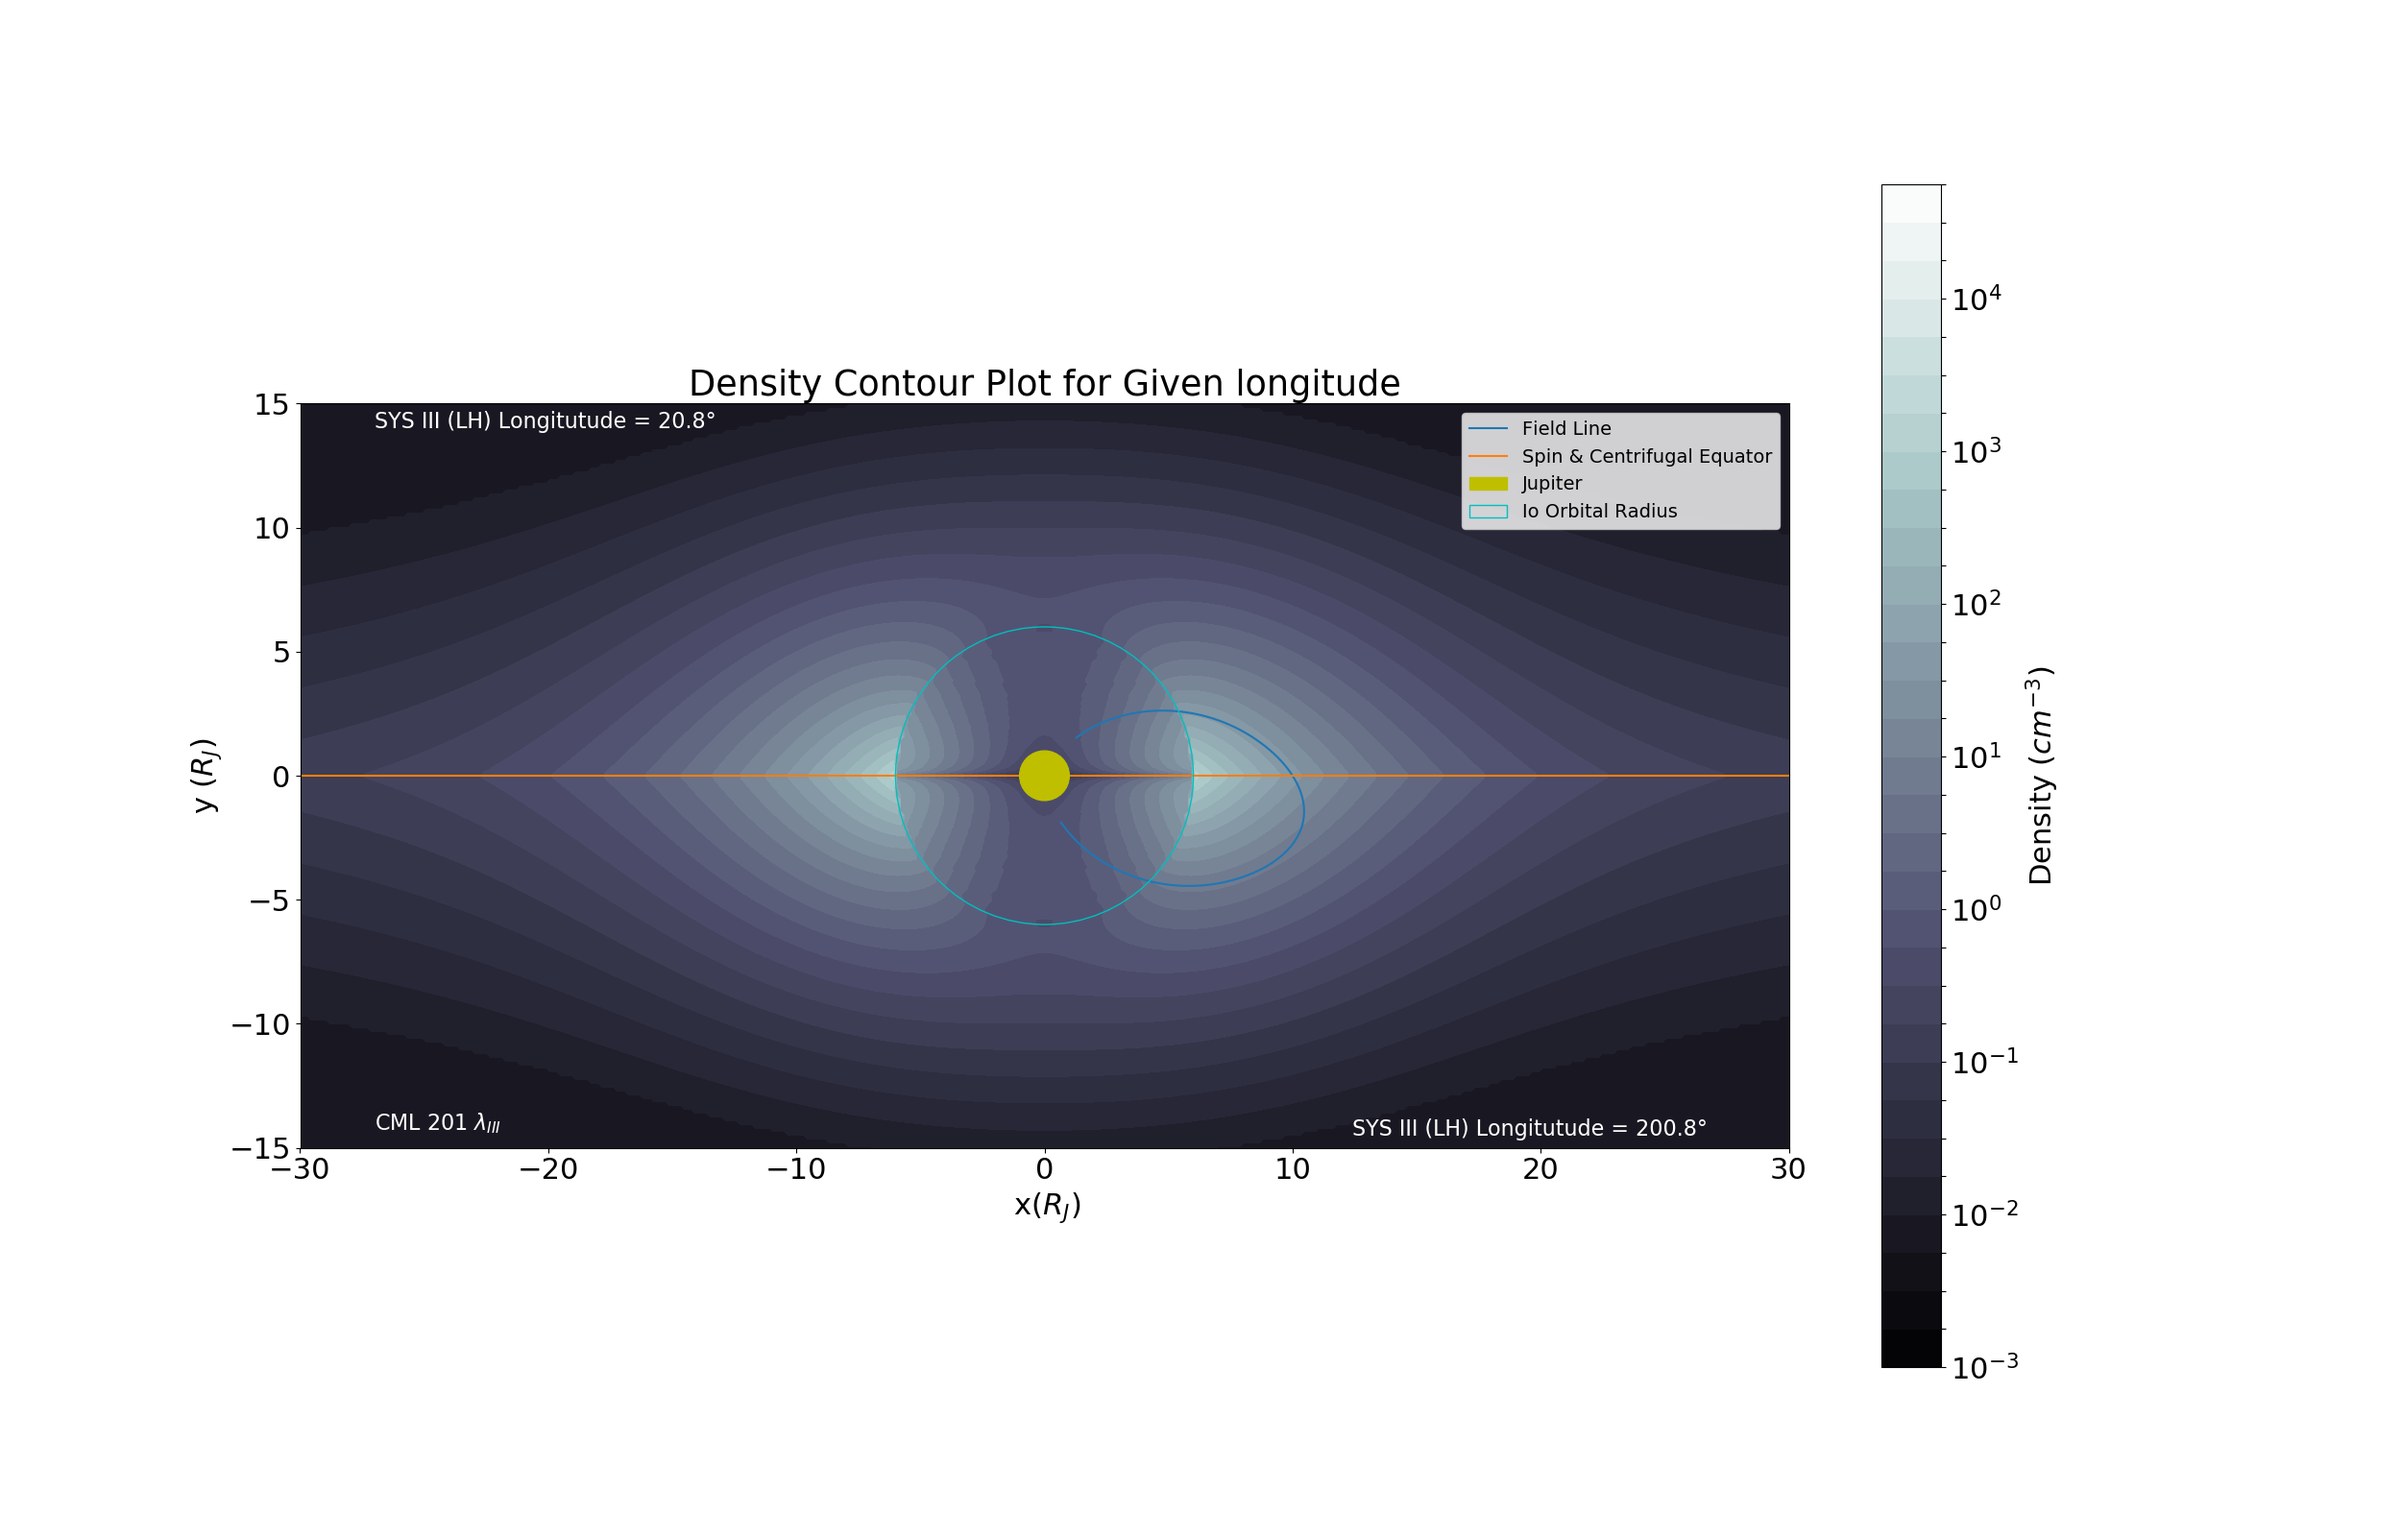
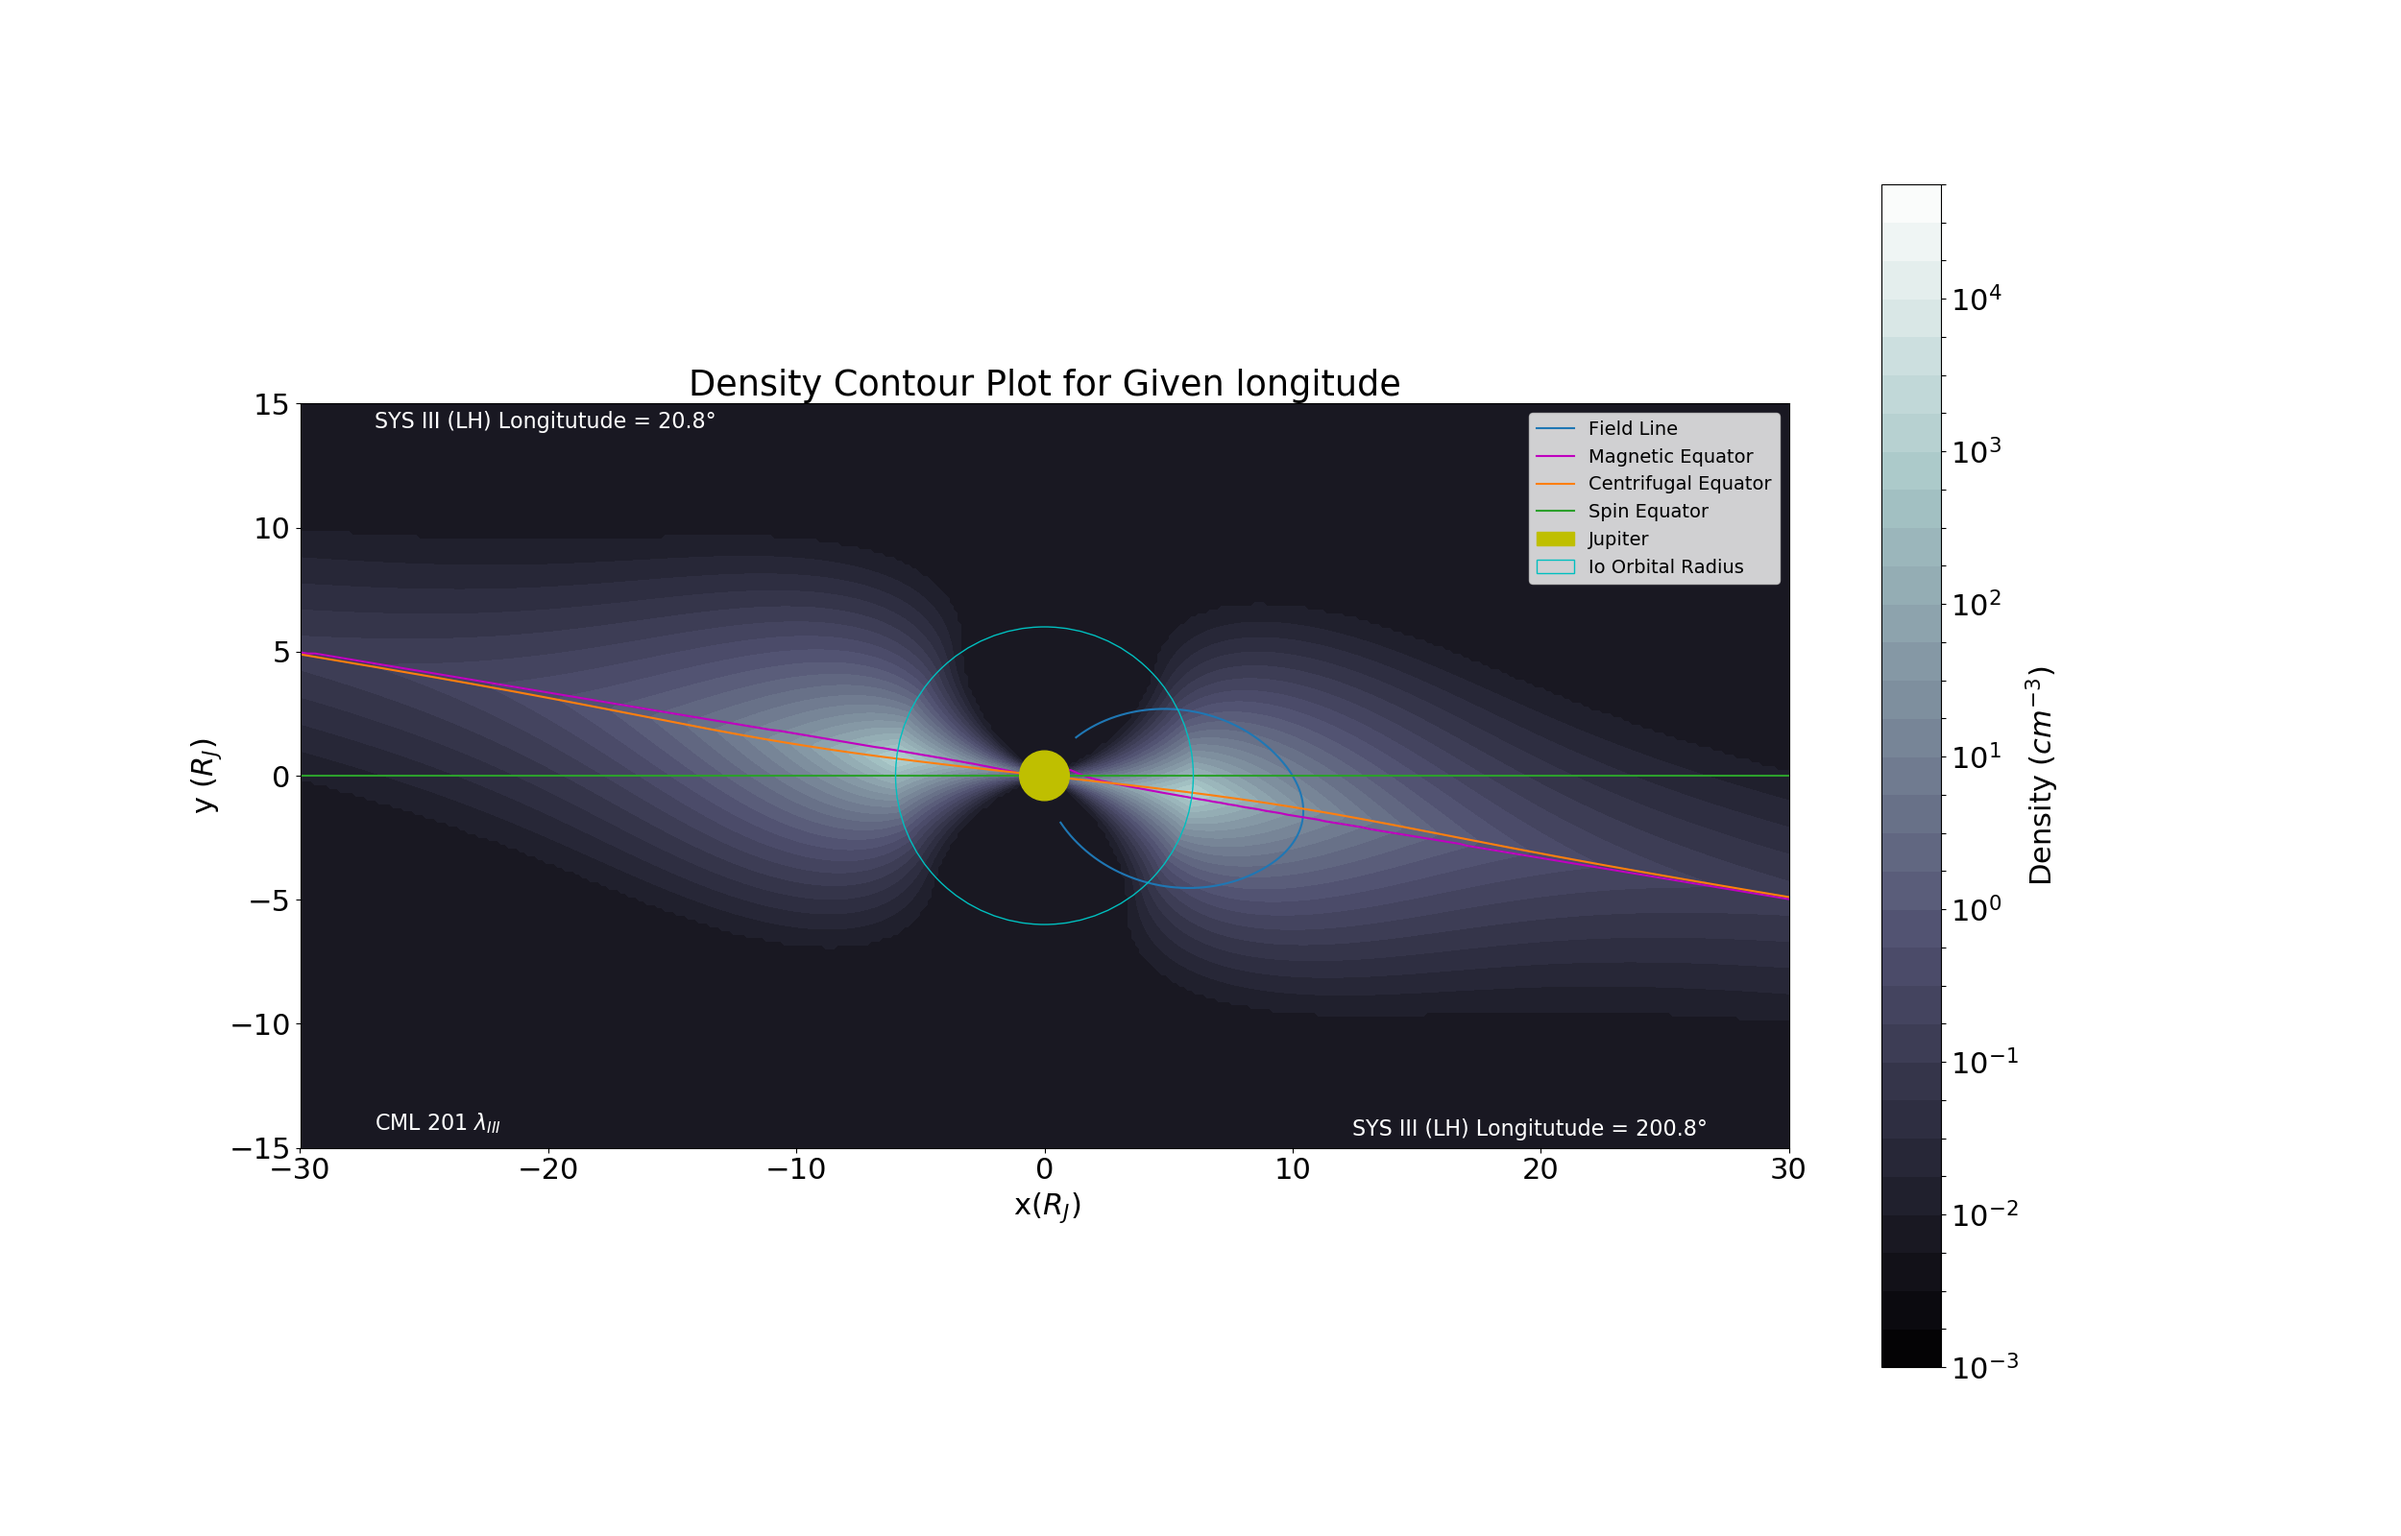
aah

Changed region(s): [[0.1248, 0.25, 0.7488, 0.7188], [0.6864, 0.5625, 0.7176, 0.5938], [0.1248, 0.4062, 0.156, 0.4375]]

diff --git a/alfven.py b/alfven.py
@@ -1191,7 +1191,7 @@ class AlfvenVel:
             
                 ''' if r>6, then density and mangetic field calculated in the same manner ''' 
                 if equators =='unmatched':    
-                    n = self.densityfunctions.density_sep_equators(r, theta, phi_lh)
+                    n = self.densityfunctions.density_sep_equators(r, theta, phi)
                 if equators =='matched':    
                     n = self.densityfunctions.density_same_equators(r, theta)
                 #print(n)
@@ -1563,8 +1563,61 @@ class AlfvenVel:
         plt.savefig('images-24-jan-update/v outflow vs VA equatorial')
         plt.show()
 
+    def lat_where_va_correction_matters(self, r, phi_lh_deg, step = 1*np.pi/180, rtol = 0.01
+    ,equators = 'unmatched'):
+        '''
+        input r in rj, phi sys III left handed 
+        return latitude where the relativistic correction matters
+        '''
+        '''
+        it'll probably be faster starting at vertically up and working out where it stops to matter?
+        '''
+        phi_lh_rad = phi_lh_deg * np.pi / 180
+        phi_rh_rad = 2*np.pi - phi_lh_rad
+        thetas = np.arange(2*np.pi/180, np.pi,step = step)
+        firsttime = 0
+        #print(thetas)
+        for theta in thetas:
+            if equators =='unmatched':    
+                n = self.densityfunctions.density_sep_equators(r, theta, phi_lh_rad)
+            if equators =='matched':    
+                n = self.densityfunctions.density_same_equators(r, theta)
+            #print(n)
 
+            B_r, B_theta, B_phi = self.field.Internal_Field(r, theta, phi_rh_rad, model=self.model) #calculates the magnetic field due to the internal field in spherical polar that point)
+            B_current = self.field.CAN_sheet(r, theta, phi_rh_rad) #calculates the magnetic field due to the current sheet in spherical polar
+            B_notcurrent = np.array([B_r, B_theta, B_phi]) 
+            B_overall = np.add(B_current, B_notcurrent)
+            B_x, B_y, B_z = self.help.Bsph_to_Bcart(B_overall[0], B_overall[1], B_overall[2], r, theta, phi_rh_rad)
+            
+            B = np.array([B_x, B_y, B_z])
+            B_tesla = B/(1e9) #CHRIS code outputs nT
+            va = self.calculator(B_tesla, n)
+            corrected_va = self.relativistic_correction(va)
+            if np.isclose(corrected_va, va, rtol = rtol):
+                #print(theta)
+                if firsttime ==0:
+                    value_1 = theta
+                    firsttime = 1
+                value_2 = theta
+                #print(value)
+        index_t = np.where(thetas == value_1)[0]
+        index_b = np.where(thetas == value_2)[0]
+        
+        first_theta_it_matters_colat = thetas[index_t[0]-1]
+        second_timc = thetas[index_b[0]-1]
+        
+        lat_top = np.pi/2 - first_theta_it_matters_colat
+        lat_deg_top = lat_top * 180/np.pi
 
+        lat_bottom = np.pi/2 - second_timc
+        lat_deg_bottom = lat_bottom * 180/np.pi
+        
+
+        return lat_deg_top, lat_deg_bottom
+        
+
+            
     #def relativistic_correction_area_of_impact_3d(self)
 
 test = AlfvenVel(numpoints=200, model='VIP4', stop = 50)
@@ -1586,12 +1639,14 @@ test = AlfvenVel(numpoints=200, model='VIP4', stop = 50)
 #test.plot_angle_vs_time_btoh_directions(r=10, num=70, equators = 'unmatched')
 #test.plot_multiple_distances_both_directions(num=50, r=10, equators='matched')
 #test.plot_outflow_vs_alfven(mdot = 1300, gridsize = 70, model='VIP4', cansheet = 'on', equators = 'unmatched')
-test.outflow_vs_alfven_cent_plane(mdot = 2000, gridsize = 70, model='VIP4', cansheet = 'on', equators = 'unmatched')
+#test.outflow_vs_alfven_cent_plane(mdot = 2000, gridsize = 70, model='VIP4', cansheet = 'on', equators = 'unmatched')
 #test.diverge_rel_correction()
 #test.visualise_rel_correction_single_point()
-#test.relativistic_correction_area_of_impact_2d(200.8)
+#test.relativistic_correction_area_of_impact_2d(200.8, equators='unmatched')
 #test.relativistic_correction_area_of_impact_topdown()
 #test.outflow_vs_alfven_v2(mdot = 130, gridsize =50)
 #print(test.difference_in_travel_time(r = 8, phi_lh_rad = 200.8))
 #test.difference_in_tt_multi(num = 100)
 #test.db6_better(200.8)
+
+print(test.lat_where_va_correction_matters(10, 291))

diff --git a/density_height.py b/density_height.py
@@ -39,7 +39,7 @@ class DensityHeight:
         return H
 
     def density(self, n_0, z, H):
-        n = n_0 * np.exp(-z/H)
+        n = n_0 * (np.exp(-z/H)**2)
         return n
 
     def density_same_equators(self,r, theta, coord_system = 'LH'):
@@ -430,12 +430,12 @@ class DensityHeight:
                 s = grids[i][j]
                 r = np.sqrt(z**2 + s**2)
                 phi = phi_rh 
-
+                theta = np.arctan2(s,z)
                 if r < 6:
                     if firsttime == 0:
                         if equators == 'matched':
                             
-                            n_at_6 =  self.density_same_equators(6, theta, phi_lh_rad)
+                            n_at_6 =  self.density_same_equators(6, theta)
                         if equators == 'unmatched':
                             n_at_6 =  self.density_sep_equators(6, theta, phi_lh_rad)
                         firsttime == 1
@@ -443,7 +443,7 @@ class DensityHeight:
                     density_row.append(n)
                     continue
 
-                theta = np.arctan2(s,z)
+                #theta = np.arctan2(s,z)
                 if equators == 'matched':
                     #theta = np.pi/2 - theta
                     n = self.density_same_equators(r, theta)
@@ -538,7 +538,8 @@ test = DensityHeight(numpoints= 100, start= 5, stop = 30)
 #test.density_sep_equators(30, np.pi/2, 360*np.pi/180)
 #test.meridian_slice(200.8, lines='on')
 #test.field_line_on_contour(200.8, r = 10, one_way='on')
-test.equator_comparison_mag_cent(200.8, num=500)
-#test.contour_more_options(200.8, equators='matched')
+#test.equator_comparison_mag_cent(200.8, num=500)
+#
+test.contour_more_options(200.8, equators='unmatched', within_6='off')
 #test.phippsbagfig_recreate()
 '''
